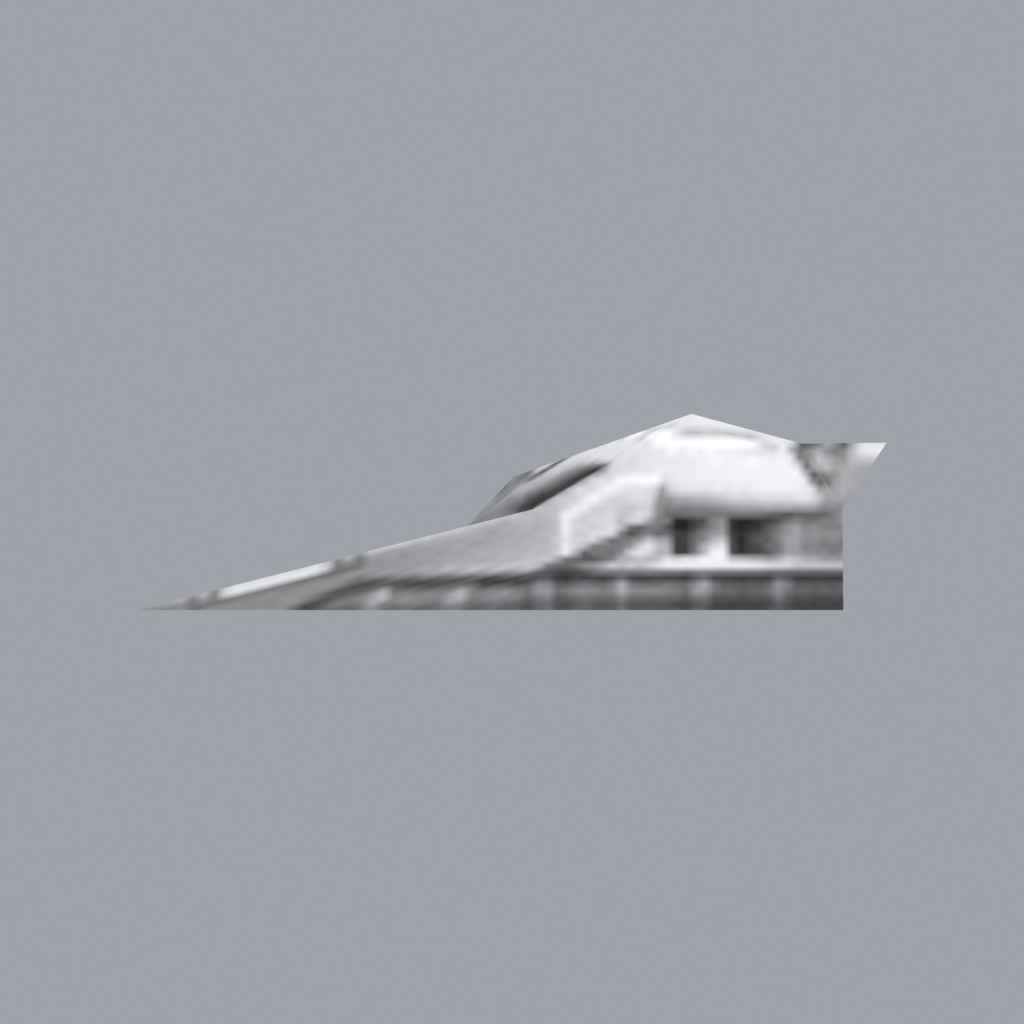
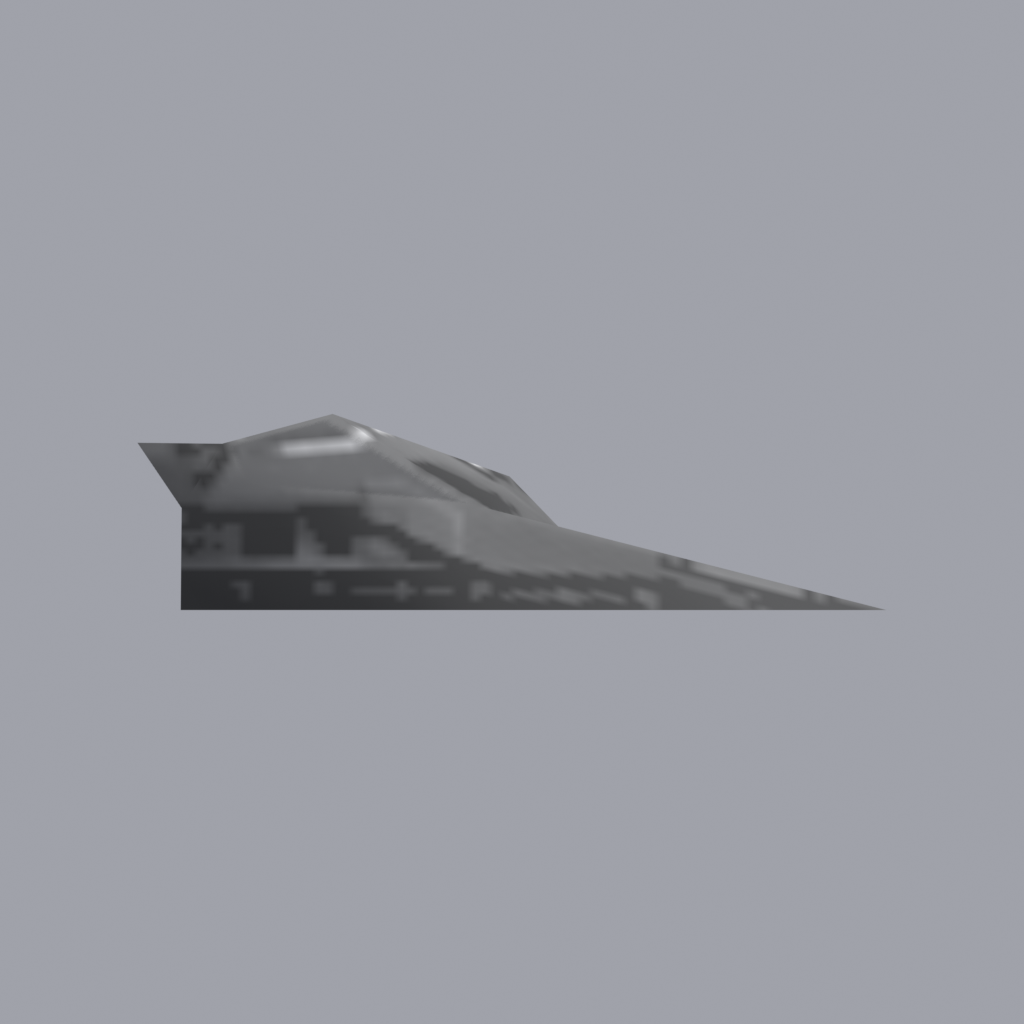
fix(tools): point the hovertank and jet nose forward
runner and warden were built with rotateQuarterY: 2, which turns their tapered
nose onto -Z — away from travel, so the tanks drove backwards. The Cobj
extraction already lands nose-on-+Z: a per-Z-slice width profile of the raws
puts the narrow end on +Z for all of them, and guardian/juggernaut are 0 and
face correctly. Set both to 0 and record how to measure it on the field itself.

Changed region(s): [[0.125, 0.4062, 0.875, 0.5938]]

diff --git a/tools/generators/units/manifest.ts b/tools/generators/units/manifest.ts
@@ -35,7 +35,16 @@ export interface UnitModelSpec {
   /** Raw download, relative to tools/generators/units/raw/. */
   readonly raw: string;
   readonly source: UnitModelSource;
-  /** Quarter-turns around +Y to bring the source's forward axis onto +Z. */
+  /**
+   * Quarter-turns around +Y to bring the source's forward axis onto +Z.
+   *
+   * The FCOP Cobj extraction already lands nose-on-+Z, so every Cobj-derived
+   * model here is 0 — measure before deviating. `2` looks harmless on a
+   * silhouette that is roughly symmetric front-to-back, and it is how the
+   * hovertank and the Sky Captain jet ended up driving backwards: their tapered
+   * ends pointed at -Z, i.e. away from travel. A per-Z-slice width profile of
+   * the raw shows which end is the nose (narrow) and which is the body (wide).
+   */
   readonly rotateQuarterY: 0 | 1 | 2 | 3;
   /** Target max horizontal extent (world units), from the greybox extents. */
   readonly footprint: number;
@@ -114,7 +123,8 @@ export const UNIT_MODELS: readonly UnitModelSpec[] = [
       url: RE_REPO,
       license: FCOP_LICENSE,
     },
-    rotateQuarterY: 2,
+    // 0 like every other Cobj: the extraction already puts the nose on +Z.
+    rotateQuarterY: 0,
     footprint: 2.0,
     maxTris: 1500,
     neutralizeColors: true,
@@ -221,7 +231,8 @@ export const UNIT_MODELS: readonly UnitModelSpec[] = [
       url: RE_REPO,
       license: FCOP_LICENSE,
     },
-    rotateQuarterY: 2,
+    // 0 like every other Cobj: the extraction already puts the nose on +Z.
+    rotateQuarterY: 0,
     footprint: 4.8,
     maxTris: 1500,
     neutralizeColors: true,
